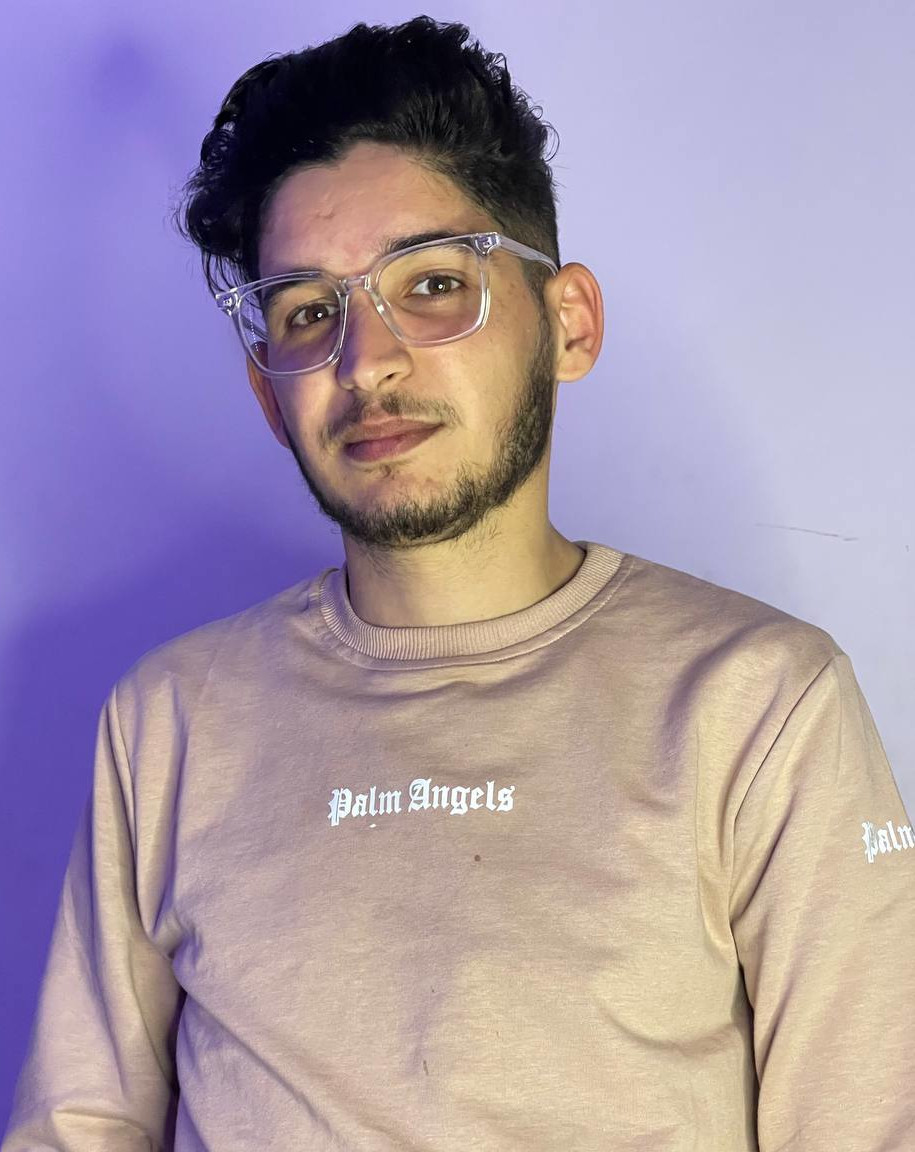
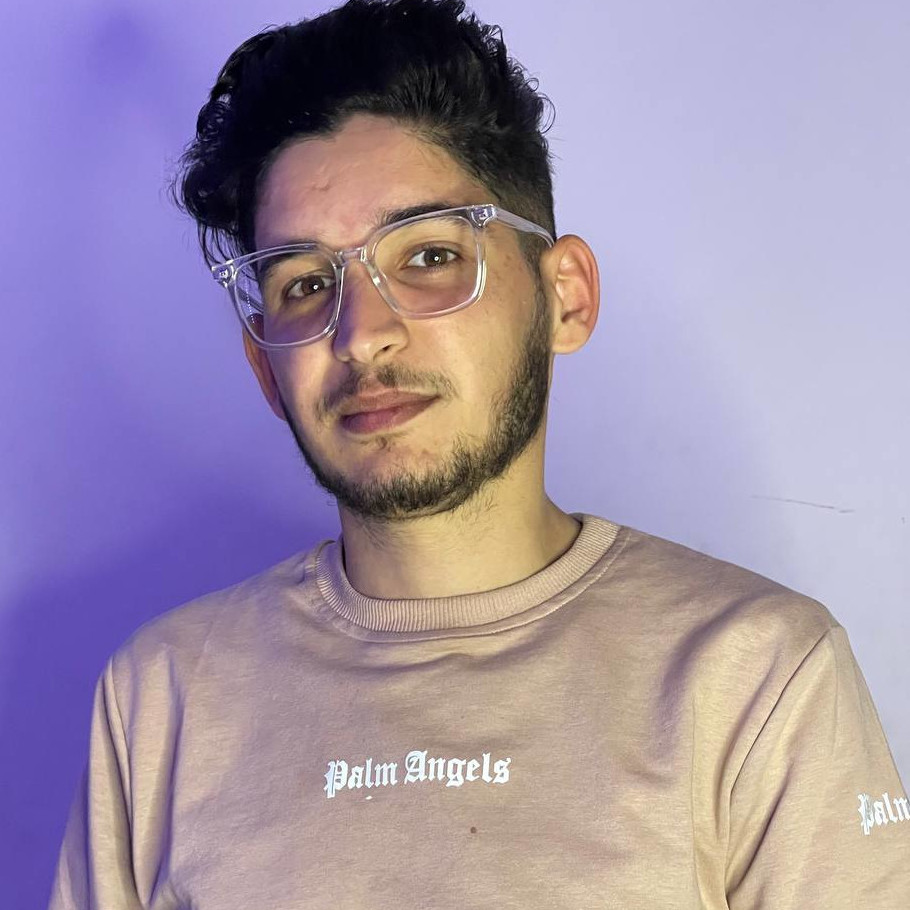
restyling

diff --git a/src/constants/constants.js b/src/constants/constants.js
@@ -5,35 +5,8 @@ export const projects = [
     image: '/images/componly.jpg',
     tags: ['NextJs','Prismic.io','Airtable'],
     source: 'https://github.com/zeghmouri',
-    visit: 'https://componly.vercel.app',
+    visit: 'https://componly.co',
     id: 2,
-  },
-  {
-    title: 'Weezee Showcase website',
-    description: "A showcase website for weezee android application. It has a beautiful, simple, fast, and responsive UI.",
-    image: '/images/weezee.webp',
-    tags: ['NextJs'],
-    source: 'https://github.com/zeghmouri/weezee',
-    visit: 'https://weezee1.vercel.app/',
-    id: 0,
-  },
-  {
-    title: 'Shukran Website',
-    description: "Landing Website for Shukran mobile application, It presents the App's features and provides a blog section for different resources.",
-    image: '/images/shukran.png',
-    tags: ['GatsbyJS', 'Prismic.io'],
-    source: 'https://github.com/zeghmouri',
-    visit: 'https://kpx-browser.vercel.app',
-    id: 3,
-  },
-  {
-    title: 'KPX Browser Website',
-    description: "A showcase Website for The Kpx Brpwser , It was developed to present the product features and provide information such as pricing plans.",
-    image: '/images/kpx.png',
-    tags: ['NextJs'],
-    source: 'https://github.com/zeghmouri',
-    visit: 'https://kpx-browser.vercel.app',
-    id: 3,
   },
   {
     title: 'IT Talents WordPress Website',
@@ -43,6 +16,33 @@ export const projects = [
     source: 'https://github.com/zeghmouri',
     visit: 'https://mdfive.dz/ecole/',
     id: 1,
+  },
+  {
+    title: 'Shukran Website',
+    description: "Landing Website for Shukran mobile application, It presents the App's features and provides a blog section for different resources.",
+    image: '/images/shukran.png',
+    tags: ['GatsbyJS', 'Prismic.io'],
+    source: 'https://github.com/zeghmouri',
+    visit: 'https://getshukran.com',
+    id: 3,
+  },
+  {
+    title: 'Weezee Showcase website',
+    description: "A showcase website for weezee android application. It has a beautiful, simple, fast, and responsive UI.",
+    image: '/images/weezee.webp',
+    tags: ['NextJs'],
+    source: 'https://github.com/zeghmouri',
+    visit: 'https://weezee.fr/',
+    id: 0,
+  },
+  {
+    title: 'KPX Browser Website',
+    description: "A showcase Website for The Kpx Brpwser , It was developed to present the product features and provide information such as pricing plans.",
+    image: '/images/kpx.png',
+    tags: ['NextJs'],
+    source: 'https://github.com/zeghmouri',
+    visit: 'https://kpx-browser.vercel.app',
+    id: 3,
   },
 
 ];

diff --git a/src/components/BackgrooundAnimation/BackgroundAnimation.js b/src/components/BackgrooundAnimation/BackgroundAnimation.js
@@ -4,13 +4,15 @@ import { Avatar } from '@mui/material';
 
 export const CustomAvatar = styled(Avatar)`
     position:absolute !important;
-    top:10% !important;
-    left:21% !important;
+    top:20% !important;
+    left:25% !important;
     width:300px !important;
-    height:380px !important;
+    height:300px !important;
+    border-radius:10px !important;
     @media ${props => props.theme.breakpoints.sm}{
     width : 50px !important;
     height : 50px !important;
+
   }
 
 `
@@ -373,7 +375,7 @@ const BackgroundAnimation = () => (
         </linearGradient>
       </defs>
     </svg>
-    <CustomAvatar src='/images/mypic.jpg' variant='rounded'/> 
+    <CustomAvatar src='/images/mypic.jpg' /> 
   </div>
 );
 

diff --git a/src/components/Footer/FooterStyles.js b/src/components/Footer/FooterStyles.js
@@ -2,7 +2,7 @@ import styled from "styled-components"
 
 export const FooterWrapper = styled.section`
 	width: calc(100vw - 96px);
-  max-width: 1040px;
+  max-width: 1180px;
   padding: 2rem 48px 40px;
   margin: 1rem auto;
   box-sizing: content-box;
@@ -44,7 +44,7 @@ export const LinkItem = styled.a`
 `
 
 export const SocialIconsContainer = styled.div`
-max-width: 1040px;
+max-width: 1180px;
 display: flex;
 justify-content: space-between;
 

diff --git a/src/styles/GlobalComponents/index.js b/src/styles/GlobalComponents/index.js
@@ -5,7 +5,7 @@ export const Section = styled.section`
   flex-direction: ${(props) => props.row ? "row" : "column"};
   padding: ${(props) => props.nopadding ? "0" : "32px 48px 0"} ;
   margin: 0 auto;
-  max-width: 1040px;
+  max-width: 1180px;
   box-sizing: content-box;
   position: relative;
   overflow: hidden;

diff --git a/src/components/Contact/ContactStyles.js b/src/components/Contact/ContactStyles.js
@@ -4,7 +4,7 @@ import TextField from '@mui/material/TextField';
 
 export const FormGroup = styled.section`
 	width: calc(100vw - 96px);
-  max-width: 1040px;
+  max-width: 1180px;
   padding: 2rem 48px 40px;
   margin: 1rem auto;
   box-sizing: content-box;

diff --git a/src/components/Acomplishments/AcomplishmentsStyles.js b/src/components/Acomplishments/AcomplishmentsStyles.js
@@ -86,7 +86,7 @@ export const BoxText = styled.p`
 
 export const Join = styled.div`
   display: flex;
-  max-width: 1040px;
+  max-width: 1180px;
   justify-content: center;
   align-items: center;
   padding-bottom: 80px;

diff --git a/src/components/TimeLine/TimeLineStyles.js b/src/components/TimeLine/TimeLineStyles.js
@@ -2,7 +2,7 @@
 import styled from 'styled-components'
 
 export const CarouselContainer = styled.ul`
-  max-width: 1040px;
+  max-width: 1180px;
   background: #0F1624;
   padding: 0rem;
   list-style:none;

diff --git a/src/pages/index.js b/src/pages/index.js
@@ -12,8 +12,8 @@ const Home = () => {
   return (
     <Layout>
       <Section grid>
-        <Hero />
         <BgAnimation />
+        <Hero />
       </Section>
       <Projects />
     <Technologies />
